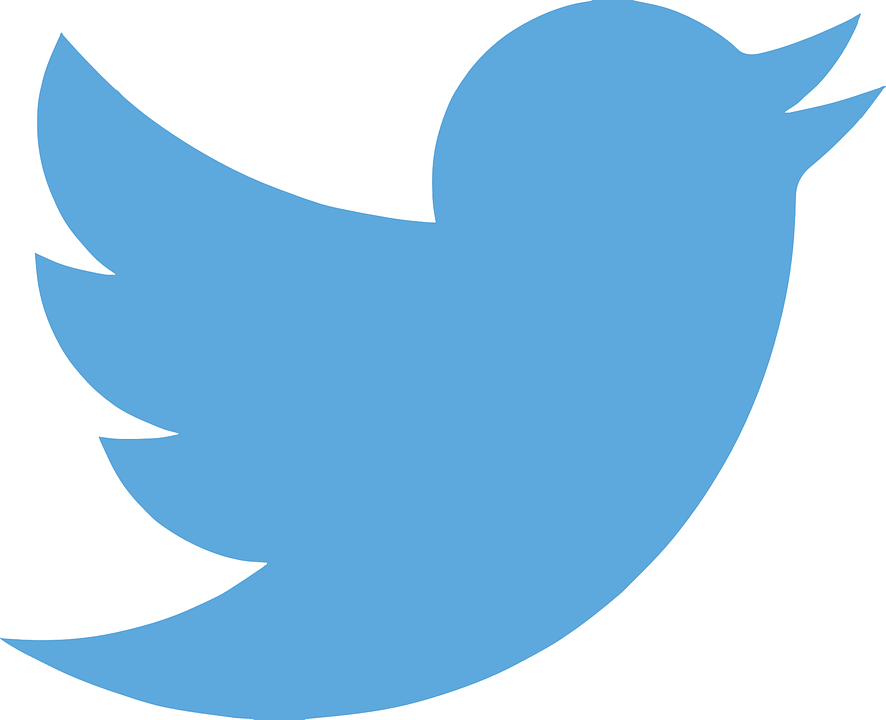
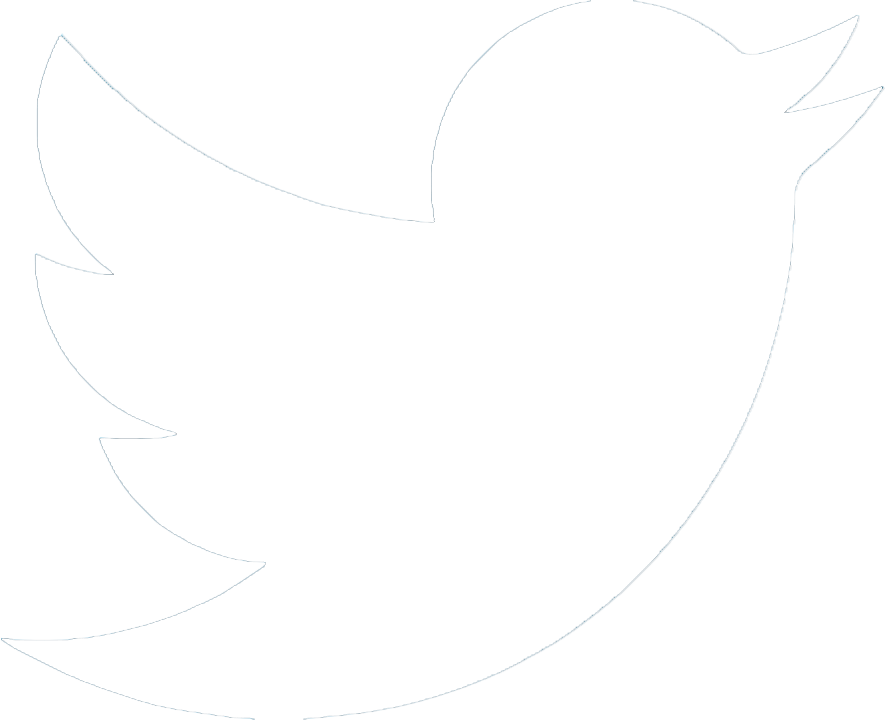
Se agrego icono de pajaro en el fondo

diff --git a/trabajo 3/login tw/index.html b/trabajo 3/login tw/index.html
@@ -10,7 +10,9 @@
 <body>
 
         <div class="grid">
-            <div class="logo"></div>
+            <div class="logo">
+                <img class="pajaro" src="./images/pajaro.png" />
+            </div>
             <div class="login"></div>
             <div class="footer">
                 <a>Acerca de</a>

diff --git a/trabajo 3/login tw/estilos.css b/trabajo 3/login tw/estilos.css
@@ -22,7 +22,16 @@ body {
 
 .logo {
     background-image: url(./images/fondo.png);
+    display: flex;
+    justify-content: center;
+    align-items: center;
+    padding: 20px;
+    height: 100vh;
+}
 
+.pajaro {
+    width: 400px;
+    height: 300px;
 }
 
 .login {
